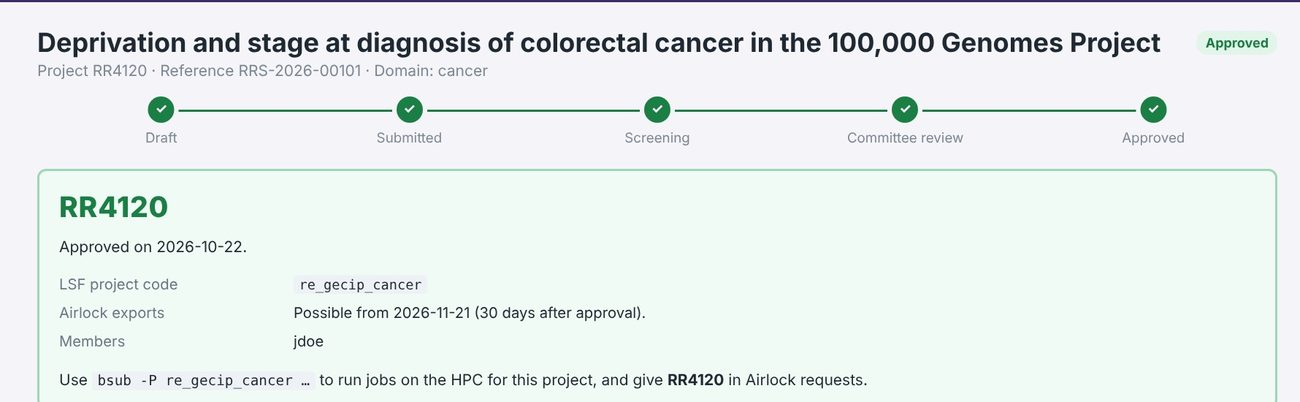
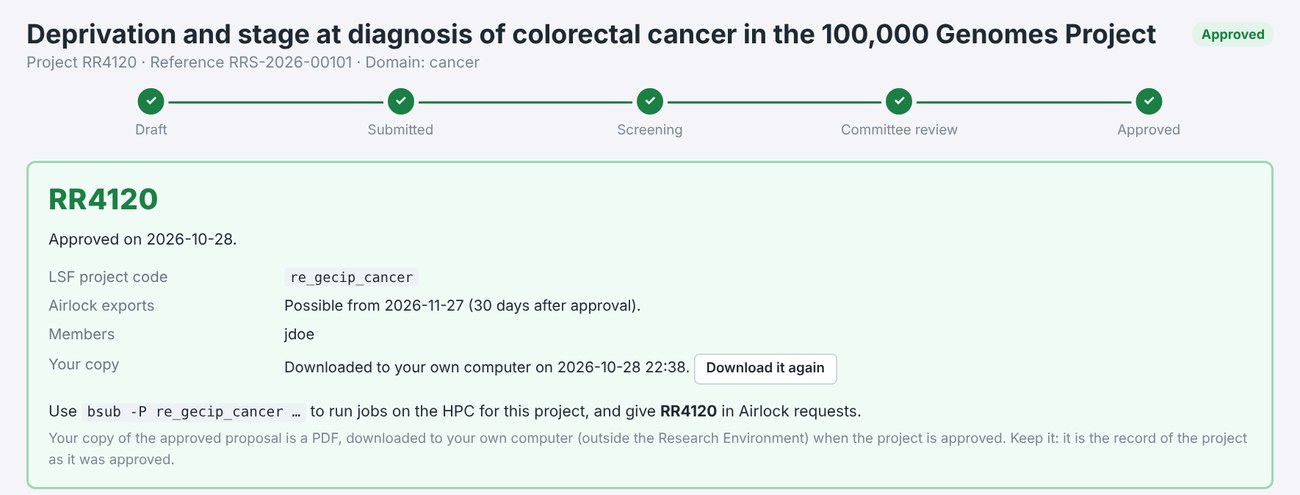
Week 1: hand in the PDF of the approved proposal
When a project is approved, the simulator's Research Registry now
downloads a copy of the approved proposal, a PDF, to the student's own
computer. Week 1 asks students to hand that in, instead of exporting
proposal.md through the Airlock under RR4001.

- tasks/week-01-pre-registration.md: the title, the introduction, what
  you use and hand in; step 6 is now "Find your copy, and hand it in",
  with a picture of the PDF and how to download it again; the old
  Airlock steps 6 and 7 and their picture are gone.
- The Research Registry page says that the copy is downloaded, and the
  picture of an approved project shows the "Your copy" row.
- Getting started and A closed environment name the copy as the one
  thing that reaches the computer without the Airlock.
- The week 1 links in the README, the task list, the Airlock page and
  the Registry page have the new title.

Claude-Session: https://claude.ai/code/session_01B5mZwmbZCp7daULmMJz8xz

Changed region(s): [[0.0, 0.0, 1.0, 1.0], [0.2154, 0.5373, 0.4923, 0.6269], [0.9231, 0.0597, 0.9846, 0.1194]]

diff --git a/tasks/week-01-pre-registration.md b/tasks/week-01-pre-registration.md
@@ -1,12 +1,12 @@
-# Week 1: register a project, and export your proposal
+# Week 1: register a project, and hand in your approved proposal
 
 [All tasks](README.md) · [Back to the guide](../README.md)
 
-This week you plan a study on the simulator’s data, register it in the Research Registry, and take a copy of your proposal out through the Airlock. Your registered proposal is your **pre-registration**: a dated plan, written before you see any results. We don’t expect a perfect plan. It is a first one, and you will revise it as you learn the methods over the coming weeks.
+This week you plan a study on the simulator’s data and register it in the Research Registry. When the project is approved, the Registry downloads a copy of your approved proposal, a PDF, to your own computer: that copy is what you hand in. Your registered proposal is your **pre-registration**: a dated plan, written before you see any results. We don’t expect a perfect plan. It is a first one, and you will revise it as you learn the methods over the coming weeks.
 
 **Time:** about two hours.\
-**You will use:** LabKeeper, the Text Editor, the Research Registry, the Airlock.\
-**You will hand in:** the zip file of your approved Airlock export.
+**You will use:** LabKeeper, the Text Editor, the Research Registry.\
+**You will hand in:** the PDF of your approved proposal, which the Registry downloads to your computer.
 
 ## Steps
 
@@ -22,19 +22,11 @@ This week you plan a study on the simulator’s data, register it in the Researc
 
 5. **Register it.** Open the **Research Registry**, choose **New proposal**, and copy each section of your file into the form (copy and paste work inside the RE). Tick the declarations and **Submit for review**. When it is approved (about 20 seconds), note your **RR number** and add it to `proposal.md`.
 
-6. **Export your proposal through the Airlock.** In the file manager, right-click `proposal.md` and choose **Request export via Airlock…**.
-    - **Project:** choose the training project **RR4001**. Your own project is less than 30 days old, so the automated check will stop an export under it.
-    - **Describe the files:** say that `proposal.md` is your research proposal, written as plain text, and that it contains no data, no results and no participant IDs.
-    - **Why outside the RE:** to hand it in for the course.
-    - **Comments:** say that it is a proposal, not results, so no participants’ data were used and there is no participant list.
-    - **Run the automated check.** A warning about the participant list is expected. Fix anything marked ✖: for example, a count below 5 written in your text (“n = 3”).
-    - Tick the declarations and **Submit request**.
+6. **Find your copy, and hand it in.** When the project is approved, your web browser downloads a copy of the approved proposal to your own computer, wherever it saves downloads (usually your Downloads folder). It is a PDF named after your RR number and username, such as `RR4120_jdoe_approved_proposal.pdf`. It is the only thing that reaches your computer without going through the Airlock, so you don’t export anything this week. Open it, and check that it has your RR number, the date of approval and every section as you submitted it. Hand it in as your course team asks.
 
-    ![The automated check for a proposal under RR4001: the warning about a participant list is expected](../images/airlock-check-pass.jpg)
+    ![The top of the first page of an approved proposal’s PDF](../images/approved-proposal-pdf.jpg)
 
-    See [The Airlock](../docs/airlock.md) for each step, with pictures.
-
-7. **Download and hand in.** When the request is approved, open it (**My requests**) and press **Download the approved files**. Hand in the zip file as your course team asks.
+    If the copy didn’t download, or you have lost it, open your project in the Registry (**My projects**): the button beside **Your copy** downloads it again.
 
 ## Questions you could ask
 
@@ -132,7 +124,7 @@ At least 20 words: who would gain from the answer, and how.
 - [ ] How many people you have, and what that lets you detect
 - [ ] What you will do about missing data, multiple testing and small numbers
 - [ ] The software, with versions
-- [ ] No IDs, and no counts below 5, anywhere in the text (the Airlock reads it)
+- [ ] No IDs, and no counts below 5, anywhere in the text (your copy of it leaves the RE)
 - [ ] Saved as `proposal.md` in your project folder
 
 ## Keep a log

diff --git a/docs/research-registry.md b/docs/research-registry.md
@@ -125,7 +125,7 @@ power.prop.test(p1 = 0.40, p2 = 0.50, power = 0.80)
 
 ![What the Registry says if you submit too early](../images/registry-incomplete.jpg)
 
-Once it is submitted, your project page shows its progress: submitted, screening, committee review, approved. When it is approved you get your RR number, your LSF project code, and the date from which Airlock exports are possible.
+Once it is submitted, your project page shows its progress: submitted, screening, committee review, approved. When it is approved you get your RR number, your LSF project code, and the date from which Airlock exports are possible. Your web browser also downloads a copy of the approved proposal, a PDF, to your own computer; the button beside **Your copy**, on the project’s page, downloads it again.
 
 ![An approved project](../images/registry-approved.jpg)
 
@@ -135,7 +135,7 @@ A Research Registry proposal is an access application, and its form only checks 
 
 - Put the **whole analysis plan** in the methods, specific enough that someone could check later whether you followed it.
 - Say **what you have already looked at** (for example, your feasibility counts).
-- **Keep a dated copy**: export your proposal through the Airlock (see [Week 1](../tasks/week-01-pre-registration.md)).
+- **Keep a dated copy**: the PDF of your approved proposal, which the Registry downloads to your computer when the project is approved (see [Week 1](../tasks/week-01-pre-registration.md)).
 - When you report the work, report **any changes to the plan, and why** you made them. Keep a log as you go.
 
 In a real project you would also register the plan publicly, for example on [OSF Registries](https://osf.io/registries), which has a template for analyses of existing data (van den Akker et al. 2021, *Meta-Psychology* 5).
@@ -143,4 +143,4 @@ In a real project you would also register the plan publicly, for example on [OSF
 ## Next
 
 - [The Airlock](airlock.md)
-- [Week 1: register a project and export your proposal](../tasks/week-01-pre-registration.md)
+- [Week 1: register a project, and hand in your approved proposal](../tasks/week-01-pre-registration.md)

diff --git a/README.md b/README.md
@@ -14,7 +14,7 @@ Each week we add tasks here that use what you have just been taught.
 
 | Week | Topic | Task |
 | --- | --- | --- |
-| 1 | Pre-registration | [Register a project and export your proposal through the Airlock](tasks/week-01-pre-registration.md) |
+| 1 | Pre-registration | [Register a project, and hand in the PDF of your approved proposal](tasks/week-01-pre-registration.md) |
 | 2 | Describing data, distributions and uncertainty | [Describe the cohort, look at distributions, and put confidence intervals on estimates](tasks/week-02-describing-data.md) |
 | 3 | Testing hypotheses and comparing groups | [Compare groups, test tables of counts, and check genotypes for Hardy–Weinberg equilibrium](tasks/week-03-testing-hypotheses.md) |
 | 4 | Regression | [Fit linear and logistic regressions, with genotypes as predictors, confounders and interactions](tasks/week-04-regression.md) |

diff --git a/tasks/README.md b/tasks/README.md
@@ -6,7 +6,7 @@ Each week we add tasks that use what you have just been taught, on the simulator
 
 | Week | Topic | Task |
 | --- | --- | --- |
-| 1 | Pre-registration | [Register a project, and export your proposal](week-01-pre-registration.md) |
+| 1 | Pre-registration | [Register a project, and hand in the PDF of your approved proposal](week-01-pre-registration.md) |
 | 2 | Describing data, distributions and uncertainty | [Describe the cohort, look at distributions, and put confidence intervals on estimates](week-02-describing-data.md) |
 | 3 | Testing hypotheses and comparing groups | [Compare groups, test tables of counts, and check genotypes for Hardy–Weinberg equilibrium](week-03-testing-hypotheses.md) |
 | 4 | Regression | [Fit linear and logistic regressions, with genotypes as predictors, confounders and interactions](week-04-regression.md) |

diff --git a/docs/getting-started.md b/docs/getting-started.md
@@ -44,7 +44,7 @@ Everything you do in the simulator is kept **by your web browser, for this websi
 - Use the **same browser on the same computer** each time. Another browser, or another computer, starts empty.
 - **Don’t use a private or incognito window.** It keeps nothing once you close it.
 - **Don’t clear this site’s data** in your browser settings.
-- The only way to take a copy of something out is the **Airlock**, as in the real RE. Export anything you need to keep or hand in.
+- The only way to take a copy of something out is the **Airlock**, as in the real RE: export anything you need to keep or hand in. The one exception is the copy of an approved proposal that the **Research Registry** downloads to your computer (see [Week 1](../tasks/week-01-pre-registration.md)).
 
 ## Starting again
 

diff --git a/docs/closed-environment.md b/docs/closed-environment.md
@@ -30,6 +30,8 @@ Downloads and exports, from LabKeeper, RStudio, Spyder or the terminal, are save
 
 Files leave the RE only through an Airlock export request, which is checked against the rules and reviewed. See [The Airlock](airlock.md). In the real RE you must not take screenshots of the RE, so get into the habit here: results leave as files, through the Airlock.
 
+The one exception is your approved proposal: when a project is approved, the Research Registry downloads a copy of it, a PDF, to your own computer (see [The Research Registry](research-registry.md#submitting)).
+
 ## Your folders
 
 | Folder | What it is |

diff --git a/docs/airlock.md b/docs/airlock.md
@@ -81,4 +81,4 @@ You cannot paste or drag files into the RE. To bring a file in, such as a refere
 
 ## Next
 
-- [Week 1: register a project and export your proposal](../tasks/week-01-pre-registration.md)
+- [Week 1: register a project, and hand in your approved proposal](../tasks/week-01-pre-registration.md)
